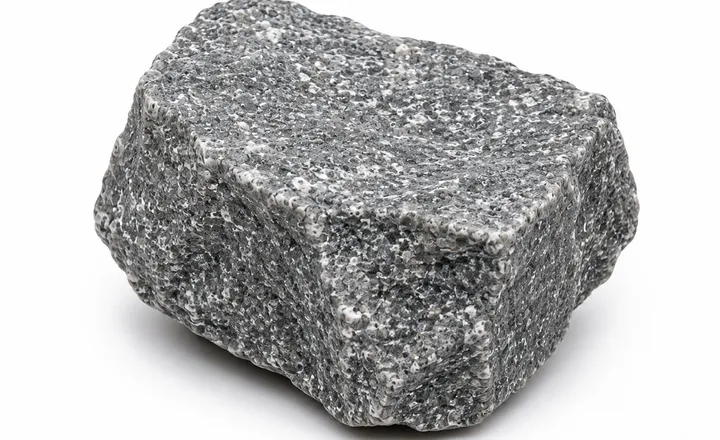
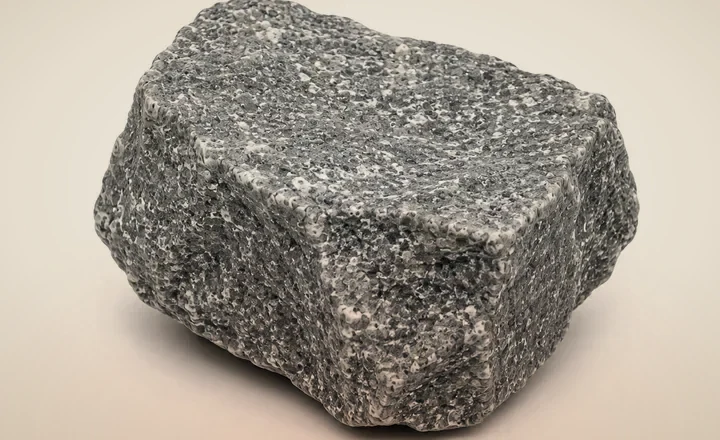
Process story phone swipe fix, products heading, mega-menu cards
- Process story (phones): a swipe that already changed the slide now stays with the story until the finger lifts, so the rest of the swipe and its momentum no longer scroll the page past slide 1 or slide 11. Slide spacing and the "story on screen" check use the pinned stage height (100svh) instead of innerHeight, which grows when the mobile address bar collapses.
- Most Demanded Products heading: "Demanded Products." stays on one line, "Our Most" above it.
- Mega menu feature cards: 1px edge ring and soft shadow so the card reads at any zoom; the picture fills spare card height. Companies card uses the stone-built OM flower, centred with equal space above and below; Infrastructure card uses the batching-plant photo; Products and Infrastructure images sit on a warm stone backdrop instead of white.

diff --git a/assets/process-story/process-story.js b/assets/process-story/process-story.js
@@ -5,7 +5,10 @@
   const scenes=[...section.querySelectorAll('.pst-scene')], imgs=scenes.map(s=>s.querySelector('img'));
   const ticks=[...section.querySelectorAll('.pst-progress a')], bars=ticks.map(a=>a.querySelector('.pst-tick'));
   const count=section.querySelector('.pst-progress-num'), N=scenes.length, reduce=matchMedia('(prefers-reduced-motion: reduce)');
-  let DURATION=680, EXIT=1150; const STEP=()=>Math.max(1,window.innerHeight-(parseFloat(getComputedStyle(section).getPropertyValue('--pst-nav'))||0));
+  let DURATION=680, EXIT=1150;
+  // One slide = the scroll distance the layout really gives it: (track height − pinned stage height) / (slides − 1). It must come from the layout (100svh),
+  // never from innerHeight: on phones innerHeight grows when the browser's address bar collapses, which would put the last slides out of the pinned range.
+  const STEP=()=>Math.max(1,(track.offsetHeight-stage.offsetHeight)/Math.max(1,scenes.length-1));
   // Visitor memory: a first visit gets the full step-by-step story; from the second visit (or once someone has read it to the end)
   // the story runs in a faster mode. ?story=fast / ?story=slow overrides it for testing.
   const MEM='om-story-v1'; let fast=false, seen=false;
@@ -18,7 +21,7 @@
   const clamp=(n,a,b)=>Math.max(a,Math.min(b,n)), pad=n=>String(n+1).padStart(2,'0');
   const sceneY=k=>track.getBoundingClientRect().top+window.scrollY+k*STEP();
   const jump=y=>{const old=root.style.scrollBehavior;root.style.scrollBehavior='auto';window.scrollTo(0,y);root.style.scrollBehavior=old};
-  const inPresentation=()=>{const top=track.getBoundingClientRect().top,bottom=top+track.offsetHeight;return top<=1&&bottom-window.innerHeight>=-24};
+  const inPresentation=()=>{const top=track.getBoundingClientRect().top,bottom=top+track.offsetHeight;return top<=1&&bottom-stage.offsetHeight>=-24};
   function reconcile(){scenes.forEach((s,i)=>{if(i===active||i===curFrom)return;s.classList.remove('is-active','is-leaving','is-entering','is-live')})}
   function mark(k){active=clamp(k,0,N-1);count.textContent=pad(active);scenes.forEach((s,i)=>s.classList.toggle('is-active',i===active));ticks.forEach((a,i)=>{a.toggleAttribute('aria-current',i===active);bars[i].style.setProperty('--p',i<=active?'1':'0')});section.dataset.activeScene=String(active+1);reconcile()}
   function warm(k){[k,k+1,k+2,k-1].forEach((i,n)=>{if(i<0||i>=N)return;const im=imgs[i];im.loading='eager';im.decoding='async';if(n===0)im.fetchPriority='high';if(im.decode)im.decode().catch(()=>{})})}
@@ -52,7 +55,16 @@
   function boundary(dir){if((dir<0&&active===0)||(dir>0&&active===N-1)){touchStart=null;return true}return false}
   function wheel(e){interacted=true;if(nav&&e.isTrusted){nav=false;clearTimeout(settleT)}if(e.ctrlKey||!inPresentation()||!stage.contains(e.target))return;const dy=e.deltaY*(e.deltaMode===1?16:e.deltaMode===2?window.innerHeight:1);if(!dy||Math.abs(dy)<Math.abs(e.deltaX))return;const dir=Math.sign(dy),abs=Math.abs(dy),now=performance.now(),gap=now-lastWheel;lastWheel=now;const stream=gap<=90&&now-lastGo<1400;if(boundary(dir)){if(stream){e.preventDefault();lastAbs=abs;return}return}e.preventDefault();if(transition){lastAbs=abs;wheelDir=dir;return}if(!wheelArmed&&(gap>90||dir!==wheelDir||abs>lastAbs*1.6+8)){wheelArmed=true;wheelAccum=0}lastAbs=abs;wheelDir=dir;if(!wheelArmed)return;if(gap>180)wheelAccum=0;wheelAccum+=dy;const threshold=Math.max(36,Math.min(90,window.innerHeight*.06));if(Math.abs(wheelAccum)>=threshold){wheelAccum=0;go(dir)}}
   function touchStartHandler(e){interacted=true;if(nav){nav=false;clearTimeout(settleT)}if(!inPresentation()||!stage.contains(e.target)||e.touches.length!==1)return;touchStart={x:e.touches[0].clientX,y:e.touches[0].clientY};touchUsed=false}
-  function touchMove(e){if(!touchStart||!inPresentation())return;const dx=e.touches[0].clientX-touchStart.x,dy=e.touches[0].clientY-touchStart.y;if(Math.abs(dy)<Math.abs(dx)||Math.abs(dy)<2)return;const d=dy<0?1:-1;if(boundary(d))return;e.preventDefault();if(!touchUsed&&!transition&&Math.abs(dy)>=34){touchUsed=true;go(d)}}
+  function touchMove(e){if(!touchStart)return;
+    // A swipe that has already changed the slide belongs to the story until the finger lifts. If it were handed to the browser once the new slide is the
+    // first or last one, the rest of the same swipe (and its momentum) would scroll the page out of the section and skip slide 1 / slide 11.
+    if(touchUsed){if(e.cancelable)e.preventDefault();return}
+    if(!inPresentation())return;
+    const dx=e.touches[0].clientX-touchStart.x,dy=e.touches[0].clientY-touchStart.y;if(Math.abs(dy)<2)return;const d=dy<0?1:-1;
+    // only a fresh swipe that starts on the first/last slide and points out of the story is left to normal page scrolling
+    if(boundary(d))return;
+    if(e.cancelable)e.preventDefault();
+    if(!transition&&Math.abs(dy)>=34&&Math.abs(dy)>=Math.abs(dx)){touchUsed=true;go(d)}}
   function touchEnd(e){if(!touchStart)return;const dy=e.changedTouches[0].clientY-touchStart.y;touchStart=null;if(touchUsed||Math.abs(dy)<42||transition)return;const dir=dy<0?1:-1;if(boundary(dir))return;go(dir)}
   function key(e){interacted=true;if(!inPresentation()||e.altKey||e.ctrlKey||e.metaKey)return;const dir=e.key==='ArrowDown'||e.key==='PageDown'||e.key===' '?1:e.key==='ArrowUp'||e.key==='PageUp'?-1:0;if(!dir)return;if(boundary(dir))return;e.preventDefault();go(dir)}
   function sync(){if(nav){clearTimeout(settleT);settleT=setTimeout(endNav,160)}if(transition||touchStart||(!nav&&performance.now()-lastGo<700))return;const top=track.getBoundingClientRect().top,step=STEP();if(inPresentation()){const k=clamp(Math.round(-top/step),0,N-1);if(k!==active){if(interacted&&!nav)jump(sceneY(active));else mark(k)}}else restPos()}

diff --git a/index.html b/index.html
@@ -1610,7 +1610,8 @@ footer{background:var(--bone);color:var(--ink);padding:72px 0 36px;border-top:1p
 /* ============ MOST DEMANDED PRODUCTS — HOMEPAGE DISCOVERY ============ */
 .mpd{background:var(--white);padding:clamp(88px,10vw,144px) 0 clamp(96px,11vw,160px);border-top:1px solid var(--line-soft)}
 .mpd-head{display:grid;grid-template-columns:minmax(0,5fr) minmax(280px,4fr);gap:clamp(40px,8vw,120px);align-items:end;margin-bottom:52px}
-.mpd-head .sec-title{margin-top:20px;max-width:12ch}
+.mpd-head .sec-title{margin-top:20px;max-width:none}
+.mpd-head .sec-title .it{display:block;white-space:nowrap}
 .mpd-lede{max-width:48ch;font-size:16px;line-height:1.75;color:var(--grey);margin:0 0 4px}
 .mpd-grid{display:grid;grid-template-columns:repeat(3,minmax(0,1fr));gap:18px}
 .mpd-card{min-width:0;display:flex;background:var(--bone);border:1px solid var(--line);border-radius:14px;overflow:hidden;transition:transform .55s cubic-bezier(.2,.7,.2,1),border-color .35s ease,box-shadow .55s ease}
@@ -1630,7 +1631,7 @@ footer{background:var(--bone);color:var(--ink);padding:72px 0 36px;border-top:1p
 .mpd-card:hover .mpd-card-arrow{background:var(--accent);border-color:var(--accent);color:var(--white);transform:translate(2px,-2px) rotate(-45deg)}
 .mpd-card-link:focus-visible{outline:2px solid var(--accent);outline-offset:4px;border-radius:14px}
 @media (max-width:1100px){.mpd-head{gap:56px}.mpd-grid{grid-template-columns:repeat(2,minmax(0,1fr));gap:16px}}
-@media (max-width:640px){.mpd{padding:76px 0 92px}.mpd-head{grid-template-columns:1fr;gap:24px;margin-bottom:36px}.mpd-head .sec-title{margin-top:16px;max-width:15ch}.mpd-lede{font-size:15px;line-height:1.7}.mpd-grid{grid-template-columns:1fr;gap:14px}.mpd-card-media{aspect-ratio:1.65}.mpd-card-media img{padding:16px 26px}.mpd-card-body{padding:22px 20px 20px}}
+@media (max-width:640px){.mpd{padding:76px 0 92px}.mpd-head{grid-template-columns:1fr;gap:24px;margin-bottom:36px}.mpd-head .sec-title{margin-top:16px;max-width:none}.mpd-lede{font-size:15px;line-height:1.7}.mpd-grid{grid-template-columns:1fr;gap:14px}.mpd-card-media{aspect-ratio:1.65}.mpd-card-media img{padding:16px 26px}.mpd-card-body{padding:22px 20px 20px}}
 @media (prefers-reduced-motion:reduce){.mpd-card,.mpd-card-media img,.mpd-card-arrow{transition:none}}
 
 @media (max-width:1180px){

diff --git a/assets/mega-nav.css b/assets/mega-nav.css
@@ -50,9 +50,13 @@
 .mega-n{font-size:10.5px;color:var(--grey);letter-spacing:.1em;margin-right:6px;font-weight:600}
 
 .mega-feat{display:flex}
-.mega-feat-card{position:relative;display:flex;flex-direction:column;width:100%;border-radius:16px;overflow:hidden;background:#141416;color:#fff;text-decoration:none}
-.mega-feat-img{flex:none;height:200px;overflow:hidden;background:#222}
-.mega-feat-img img{width:100%;height:100%;object-fit:cover;display:block;transform:scale(1);transition:transform .7s cubic-bezier(.22,.8,.24,1)}
+.mega-feat-card{position:relative;display:flex;flex-direction:column;width:100%;border-radius:16px;overflow:hidden;background:#141416;color:#fff;text-decoration:none;
+  /* a real edge at every zoom level: a 1px ring (not a hairline border that vanishes when the page is zoomed out) plus a soft lift */
+  box-shadow:0 0 0 1px rgba(20,20,22,.16),0 1px 2px rgba(20,20,22,.10),0 18px 34px -20px rgba(20,20,22,.45)}
+/* the picture takes whatever height the card has left, so a tall card is filled by the image, never by an empty dark gap */
+.mega-feat-img{position:relative;flex:1 0 200px;overflow:hidden;background:#E6DECF}
+.mega-feat-img::after{content:"";position:absolute;inset:0;pointer-events:none;box-shadow:inset 0 -1px 0 rgba(255,255,255,.10),inset 0 0 0 1px rgba(20,20,22,.06)}
+.mega-feat-img img{position:absolute;inset:0;width:100%;height:100%;object-fit:cover;display:block;transform:scale(1);transition:transform .7s cubic-bezier(.22,.8,.24,1)}
 .mega-feat-card:hover .mega-feat-img img{transform:scale(1.035)}
 .mega-feat-body{display:flex;flex-direction:column;gap:8px;padding:20px 22px 22px;flex:1}
 .mega-lab{font-size:11px;letter-spacing:.22em;text-transform:uppercase;font-weight:600;color:#fff;opacity:.92}
